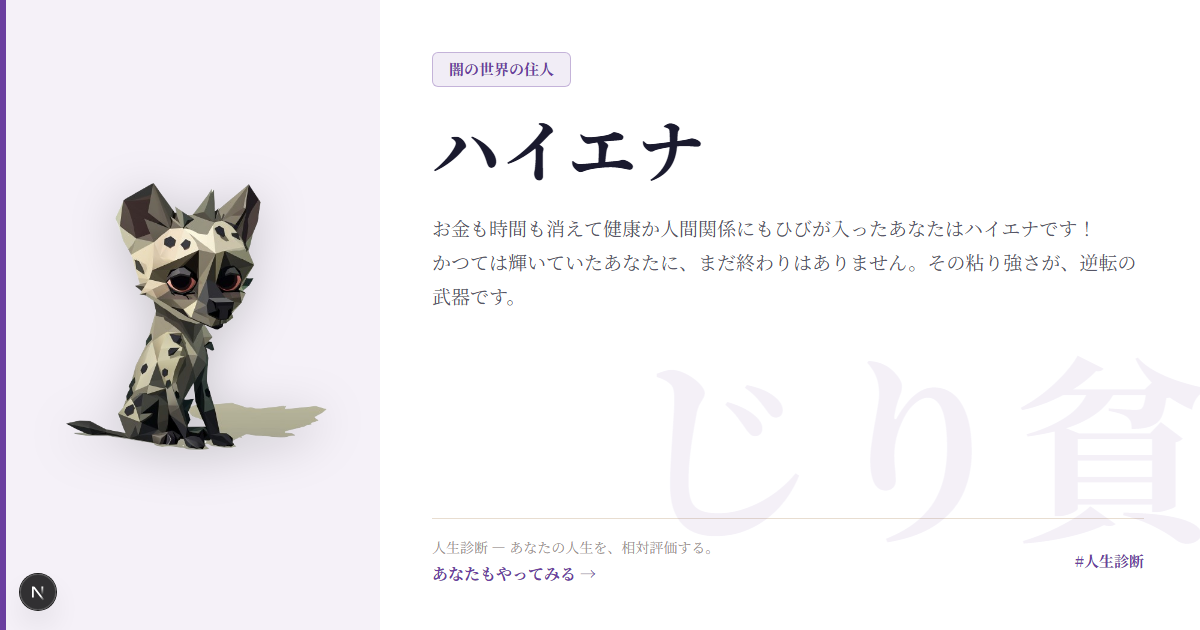
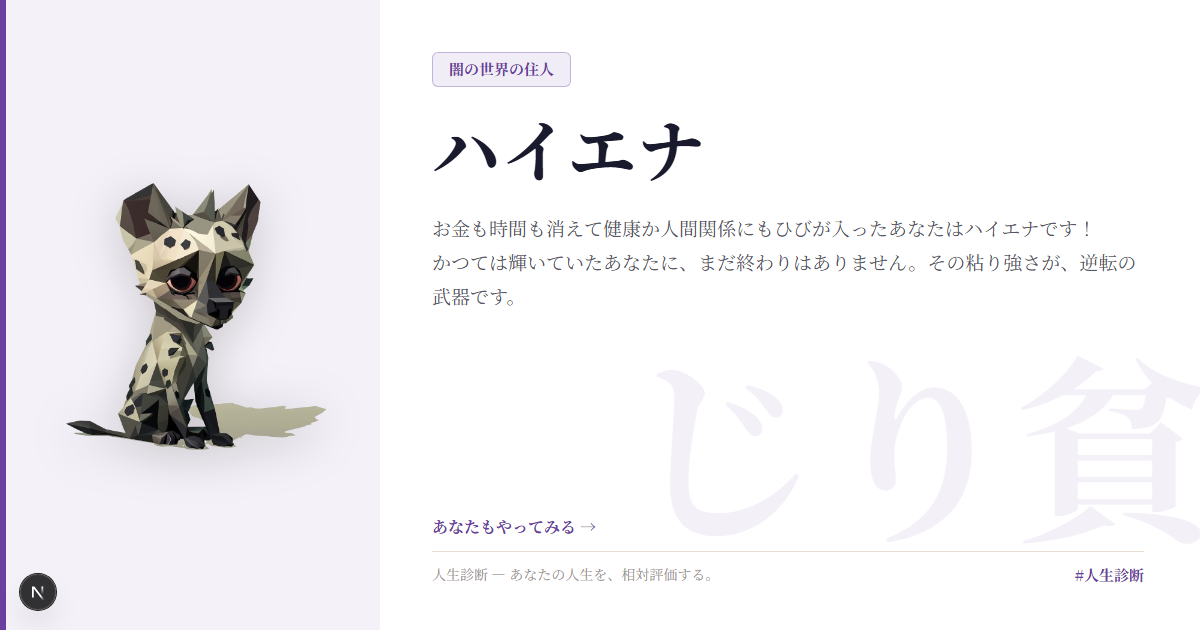
fix: OGPフッターのキャッチコピーとアンダーラインの重なりを修正・全17枚再生成

Changed region(s): [[0.3392, 0.8143, 0.5858, 0.9349], [0.8942, 0.8746, 0.9558, 0.9349]]

diff --git a/apps/web/app/ogp-gen/[characterId]/page.tsx b/apps/web/app/ogp-gen/[characterId]/page.tsx
@@ -197,27 +197,28 @@ export default async function OgpGenPage({
           </div>
 
           {/* フッター */}
-          <div
-            style={{
-              display: "flex",
-              justifyContent: "space-between",
-              alignItems: "center",
-              borderTop: `1px solid #E8DDD0`,
-              paddingTop: 18,
-              marginTop: 20,
-            }}
-          >
-            <div style={{ display: "flex", flexDirection: "column", gap: 4 }}>
+          <div style={{ marginTop: 20 }}>
+            {/* キャッチコピー（区切り線より上） */}
+            <span style={{ fontSize: 16, color, fontWeight: 800, display: "block", marginBottom: 12 }}>
+              あなたもやってみる →
+            </span>
+            {/* 区切り線 + サイト情報 */}
+            <div
+              style={{
+                display: "flex",
+                justifyContent: "space-between",
+                alignItems: "center",
+                borderTop: `1px solid #E8DDD0`,
+                paddingTop: 12,
+              }}
+            >
               <span style={{ fontSize: 14, color: "#9A9290" }}>
                 人生診断 — あなたの人生を、相対評価する。
               </span>
-              <span style={{ fontSize: 16, color, fontWeight: 800 }}>
-                あなたもやってみる →
+              <span style={{ fontSize: 15, color, fontWeight: 700 }}>
+                #人生診断
               </span>
             </div>
-            <span style={{ fontSize: 15, color, fontWeight: 700 }}>
-              #人生診断
-            </span>
           </div>
         </div>
       </div>
